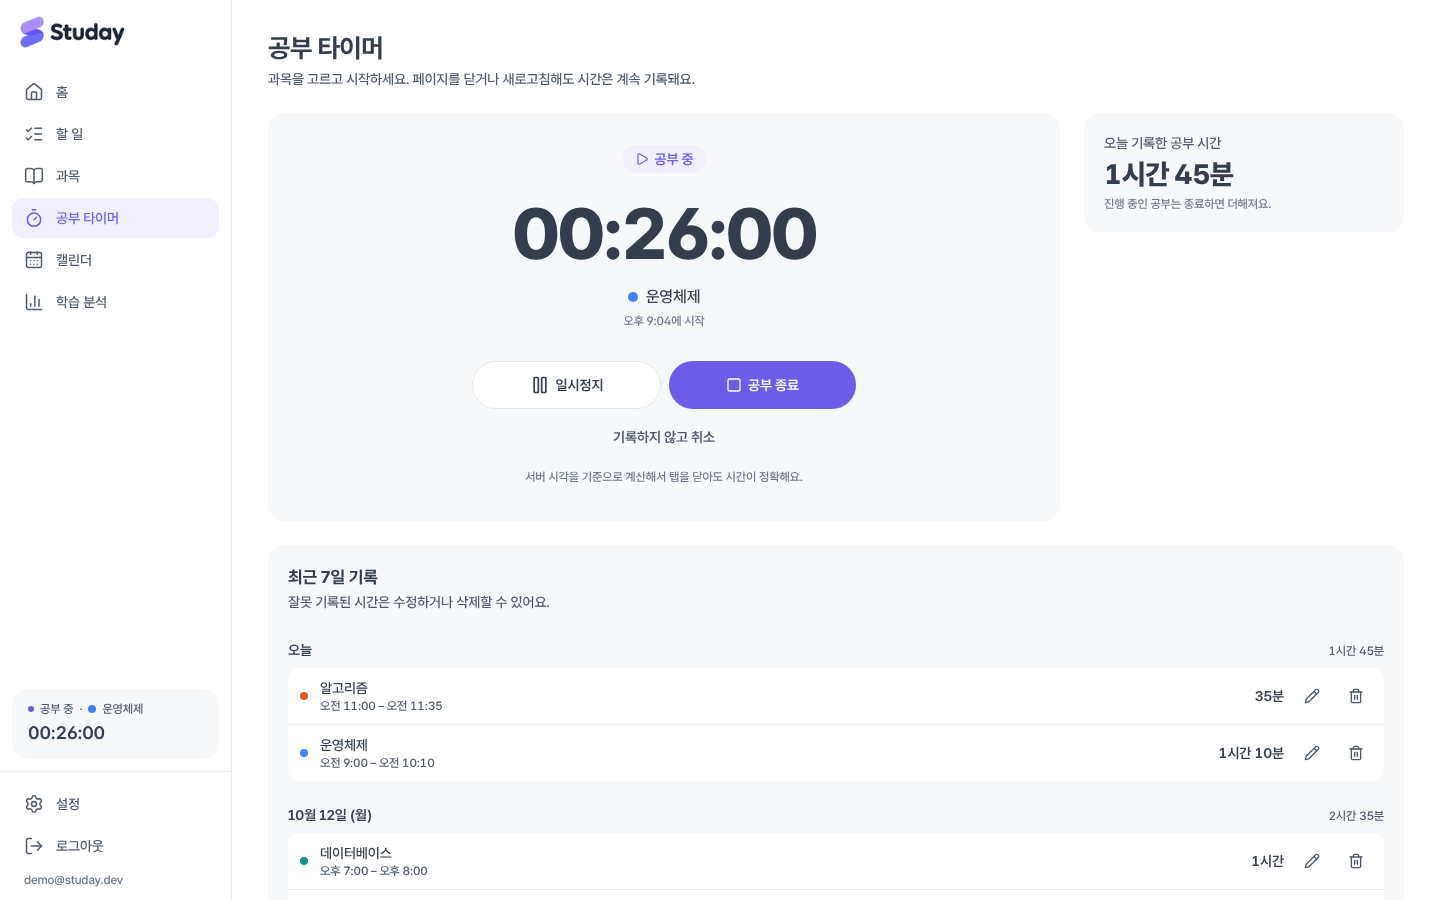
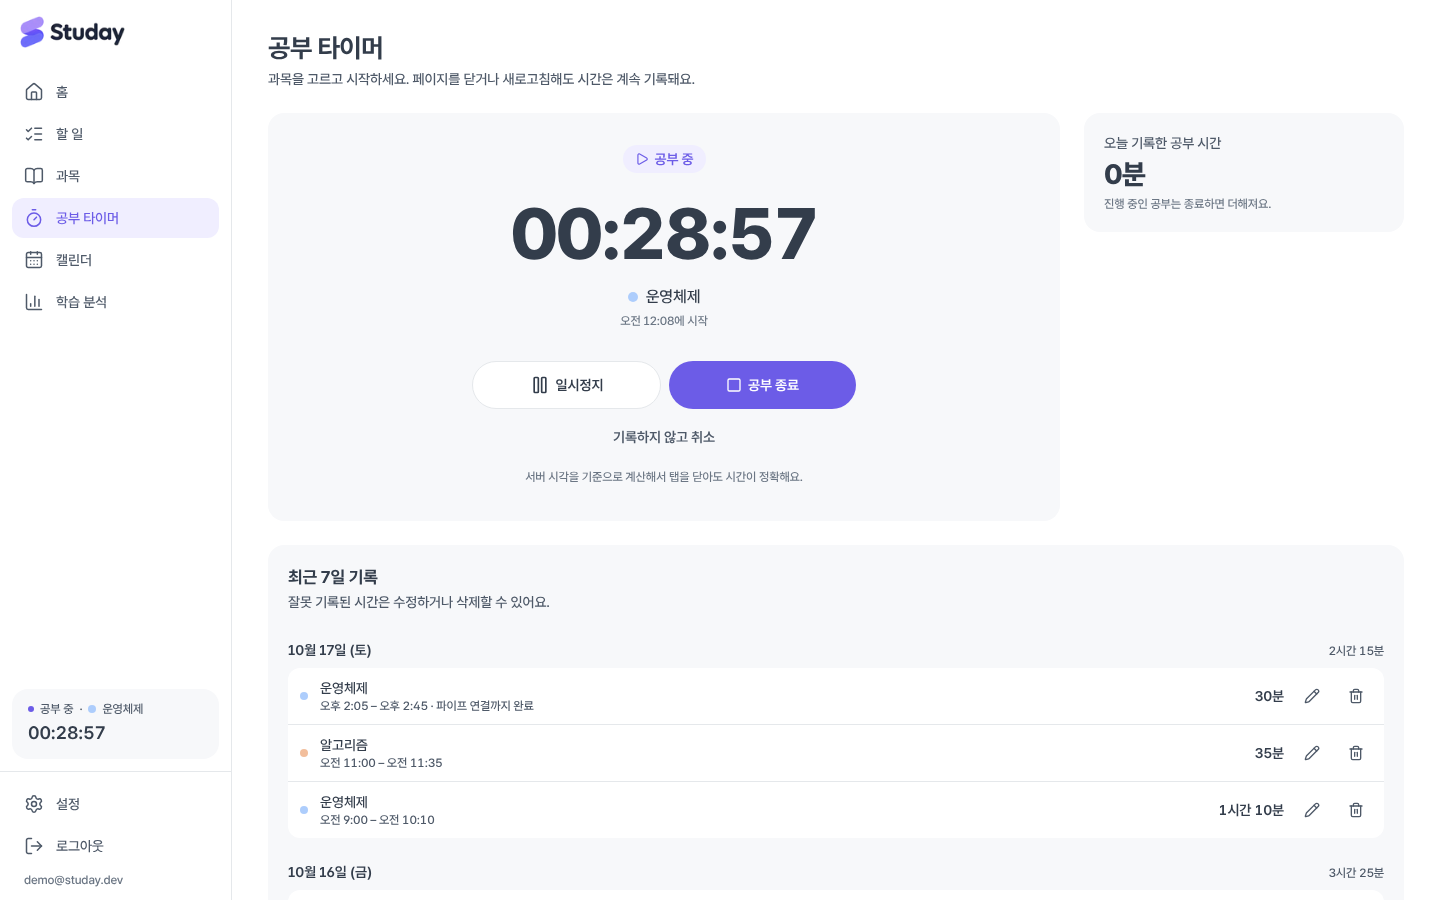
feat(subject): 과목 색상을 파스텔 팔레트로 변경
- 과목 색상 10가지를 파스텔 톤으로 교체 (라벤더·블루·스카이·민트·세이지·레몬·피치·코랄·핑크·그레이)
- 마이그레이션으로 기존 과목 색을 같은 위치의 파스텔 색으로 바꾸고 기본값을 라벤더로 변경
- 색상 선택 체크 표시를 진한 색으로 바꿔 연한 배경에서도 보이게 함
- 삭제된 과목·과목 없는 일정의 대체 색을 FALLBACK_SUBJECT_COLOR 상수로 통일
- 캘린더 날짜 칸 표시선을 4px로 넓혀 파스텔에서도 보이게 함
- design.md·deployment.md·README 갱신, 스크린샷 다시 촬영

diff --git a/src/components/study-log/study-log-card.tsx b/src/components/study-log/study-log-card.tsx
@@ -38,14 +38,13 @@ import {
   weekdayOfKey,
 } from "@/lib/time";
 import type { Subject } from "@/lib/types";
+import { FALLBACK_SUBJECT_COLOR } from "@/lib/subjects";
 
 const UNIT_OPTIONS: { value: LogUnit; label: string }[] = [
   { value: "day", label: "일" },
   { value: "week", label: "주" },
   { value: "month", label: "월" },
 ];
-
-const FALLBACK_COLOR = "#64748B";
 
 type SubjectMap = Map<string, Subject>;
 
@@ -271,7 +270,7 @@ function SubjectBar({
           className="h-full"
           style={{
             width: `${(seconds / total) * 100}%`,
-            background: subjectMap.get(id)?.color ?? FALLBACK_COLOR,
+            background: subjectMap.get(id)?.color ?? FALLBACK_SUBJECT_COLOR,
           }}
         />
       ))}
@@ -294,7 +293,7 @@ function SubjectTimes({
         const s = subjectMap.get(id);
         return (
           <li key={id} className="flex items-center gap-1.5">
-            <ColorDot color={s?.color ?? FALLBACK_COLOR} />
+            <ColorDot color={s?.color ?? FALLBACK_SUBJECT_COLOR} />
             {s?.name ?? "삭제된 과목"}
             <span className="tabular text-fg font-semibold">{formatDuration(seconds)}</span>
           </li>
@@ -499,7 +498,7 @@ function DayDetail({
                   </td>
                   <td className="px-4 py-3.5 align-top max-sm:col-span-2 max-sm:row-start-2 max-sm:p-0">
                     <p className="flex items-center gap-1.5 font-semibold">
-                      <ColorDot color={s?.color ?? FALLBACK_COLOR} />
+                      <ColorDot color={s?.color ?? FALLBACK_SUBJECT_COLOR} />
                       {s?.name ?? "삭제된 과목"}
                     </p>
                     {todoTitle && (

diff --git a/src/app/(app)/calendar/calendar-view.tsx b/src/app/(app)/calendar/calendar-view.tsx
@@ -27,6 +27,7 @@ import {
 } from "@/lib/time";
 import { sortTodos } from "@/lib/todos";
 import type { CalendarEvent, Todo } from "@/lib/types";
+import { FALLBACK_SUBJECT_COLOR } from "@/lib/subjects";
 
 const MAX_ITEMS_IN_CELL = 3;
 
@@ -79,7 +80,8 @@ export function CalendarView() {
       push(todo.due_date, { kind: "todo", todo, color: subject.color });
     }
     for (const event of eventsQuery.data ?? []) {
-      const color = (event.subject_id && subjectMap.get(event.subject_id)?.color) || "#64748B";
+      const color =
+        (event.subject_id && subjectMap.get(event.subject_id)?.color) || FALLBACK_SUBJECT_COLOR;
       for (const key of eventDays(event, timeZone)) push(key, { kind: "event", event, color });
     }
     return map;
@@ -250,7 +252,7 @@ export function CalendarView() {
                             >
                               <span
                                 aria-hidden
-                                className="h-3 w-0.5 shrink-0 rounded-full"
+                                className="h-3 w-1 shrink-0 rounded-full"
                                 style={{ backgroundColor: item.color }}
                               />
                               <Icon aria-hidden className="text-fg-secondary size-3 shrink-0" />

diff --git a/src/lib/subjects.ts b/src/lib/subjects.ts
@@ -1,12 +1,20 @@
+/**
+ * Pastel subject palette. Kept soft on purpose so subject colors sit quietly
+ * next to the purple accent; the subject name is always shown as text, so the
+ * color is a secondary cue only.
+ */
 export const SUBJECT_COLORS: { value: string; label: string }[] = [
-  { value: "#6C5CE7", label: "보라" },
-  { value: "#3B82F6", label: "파랑" },
-  { value: "#0EA5E9", label: "하늘" },
-  { value: "#0D9488", label: "청록" },
-  { value: "#16A34A", label: "초록" },
-  { value: "#CA8A04", label: "노랑" },
-  { value: "#EA580C", label: "주황" },
-  { value: "#DC2626", label: "빨강" },
-  { value: "#DB2777", label: "분홍" },
-  { value: "#64748B", label: "회색" },
+  { value: "#C9C3F9", label: "라벤더" },
+  { value: "#ADCDFC", label: "블루" },
+  { value: "#96D5F1", label: "스카이" },
+  { value: "#93DBCC", label: "민트" },
+  { value: "#AAD9AF", label: "세이지" },
+  { value: "#DACB93", label: "레몬" },
+  { value: "#F2BE9C", label: "피치" },
+  { value: "#F8B8B2", label: "코랄" },
+  { value: "#F3B7CD", label: "핑크" },
+  { value: "#C3CBD8", label: "그레이" },
 ];
+
+/** Color for a deleted subject or an event without a subject. */
+export const FALLBACK_SUBJECT_COLOR = "#C3CBD8";

diff --git a/src/app/(app)/dashboard-view.tsx b/src/app/(app)/dashboard-view.tsx
@@ -24,6 +24,7 @@ import { aggregateStudy, sumBySubject, sumDays } from "@/lib/stats";
 import { formatClock, formatDayLabel, formatDuration } from "@/lib/time";
 import { isDueSoon, isOverdue, progressBySubject, sortTodos } from "@/lib/todos";
 import type { Todo } from "@/lib/types";
+import { FALLBACK_SUBJECT_COLOR } from "@/lib/subjects";
 
 export function DashboardView() {
   const week = useWeek();
@@ -119,7 +120,9 @@ export function DashboardView() {
               {active.session.status === "running" ? "공부 중이에요" : "일시정지 중이에요"}
             </span>
             <span className="text-fg mt-0.5 flex items-center gap-1.5 text-sm">
-              <ColorDot color={subjectMap.get(active.session.subject_id)?.color ?? "#64748B"} />
+              <ColorDot
+                color={subjectMap.get(active.session.subject_id)?.color ?? FALLBACK_SUBJECT_COLOR}
+              />
               {subjectMap.get(active.session.subject_id)?.name ?? "과목"}
             </span>
           </span>

diff --git a/src/app/(app)/analytics/analytics-view.tsx b/src/app/(app)/analytics/analytics-view.tsx
@@ -29,6 +29,7 @@ import {
   weekdayLabel,
   weekdayOfKey,
 } from "@/lib/time";
+import { FALLBACK_SUBJECT_COLOR } from "@/lib/subjects";
 
 type Period = "7d" | "4w";
 
@@ -195,7 +196,10 @@ export function AnalyticsView() {
                       <li key={id}>
                         <div className="flex items-baseline justify-between gap-2 text-sm">
                           <span className="flex min-w-0 items-center gap-2 font-medium">
-                            <ColorDot color={s?.color ?? "#64748B"} className="size-2.5" />
+                            <ColorDot
+                              color={s?.color ?? FALLBACK_SUBJECT_COLOR}
+                              className="size-2.5"
+                            />
                             <span className="truncate">{s?.name ?? "삭제된 과목"}</span>
                           </span>
                           <span className="tabular text-fg-secondary shrink-0">

diff --git a/src/components/todo/subject-todo-sections.tsx b/src/components/todo/subject-todo-sections.tsx
@@ -4,6 +4,7 @@ import { ColorDot } from "@/components/ui/badge";
 import { groupBySubject } from "@/lib/todos";
 import type { Category, Subject, Todo } from "@/lib/types";
 import { TodoRow } from "./todo-row";
+import { FALLBACK_SUBJECT_COLOR } from "@/lib/subjects";
 
 /**
  * Todos shown in one section per subject (subject color dot, name, count),
@@ -35,7 +36,7 @@ export function SubjectTodoSections({
               id={headingId}
               className="text-fg flex items-center gap-2 pt-3 pb-1 text-sm font-semibold"
             >
-              <ColorDot color={subject?.color ?? "#64748B"} className="size-2.5" />
+              <ColorDot color={subject?.color ?? FALLBACK_SUBJECT_COLOR} className="size-2.5" />
               <span className="truncate">{subject?.name ?? "과목"}</span>
               <span className="text-fg-tertiary text-xs font-medium tabular-nums">
                 {list.length}

diff --git a/src/app/(app)/focus/focus-view.tsx b/src/app/(app)/focus/focus-view.tsx
@@ -36,6 +36,7 @@ import {
 } from "@/lib/time";
 import { sortTodos } from "@/lib/todos";
 import type { StudySession } from "@/lib/types";
+import { FALLBACK_SUBJECT_COLOR } from "@/lib/subjects";
 
 type Action = "start" | "pause" | "resume" | "finish" | "discard" | null;
 
@@ -365,7 +366,7 @@ export function FocusView() {
                     const subj = subjectMap.get(s.subject_id);
                     return (
                       <li key={s.id} className="flex items-center gap-3 px-3 py-2.5">
-                        <ColorDot color={subj?.color ?? "#64748B"} />
+                        <ColorDot color={subj?.color ?? FALLBACK_SUBJECT_COLOR} />
                         <div className="min-w-0 flex-1">
                           <p className="truncate text-sm font-medium">{subj?.name ?? "과목"}</p>
                           <p className="tabular text-fg-secondary text-xs">

diff --git a/src/components/subject/subject-form-dialog.tsx b/src/components/subject/subject-form-dialog.tsx
@@ -131,7 +131,7 @@ function SubjectForm({ onClose, subject, onCreated }: Props) {
                 />
                 <span
                   aria-hidden
-                  className="flex size-6 items-center justify-center rounded-full text-white"
+                  className="text-fg flex size-6 items-center justify-center rounded-full"
                   style={{ backgroundColor: c.value }}
                 >
                   {selected && <Check className="size-3.5" strokeWidth={3} />}

diff --git a/README.md b/README.md
@@ -24,7 +24,7 @@
 
 ### 과목·카테고리·할 일
 
-과목마다 색상과 주간 목표 시간을 정하고, 과제·시험 공부·강의 복습 같은 카테고리로 할 일을 나눕니다. 할 일에는 우선순위, 마감일, 예상 소요 시간, 메모를 붙일 수 있습니다. 할 일 목록과 홈의 "오늘의 할 일"은 **과목별 섹션**으로 나뉘고, 섹션 안에서는 마감일이 빠른 순 → 우선순위 순으로 정렬됩니다. 과목 순서는 손잡이를 끌어 바꿀 수 있고(키보드로도 가능), 바꾼 순서는 할 일 섹션, 대시보드, 선택 목록에도 똑같이 적용됩니다. 학기가 끝난 과목은 기록을 남긴 채 **보관**할 수 있습니다.
+과목마다 파스텔 색상(10가지 중 선택)과 주간 목표 시간을 정하고, 과제·시험 공부·강의 복습 같은 카테고리로 할 일을 나눕니다. 할 일에는 우선순위, 마감일, 예상 소요 시간, 메모를 붙일 수 있습니다. 할 일 목록과 홈의 "오늘의 할 일"은 **과목별 섹션**으로 나뉘고, 섹션 안에서는 마감일이 빠른 순 → 우선순위 순으로 정렬됩니다. 과목 순서는 손잡이를 끌어 바꿀 수 있고(키보드로도 가능), 바꾼 순서는 할 일 섹션, 대시보드, 선택 목록에도 똑같이 적용됩니다. 학기가 끝난 과목은 기록을 남긴 채 **보관**할 수 있습니다.
 
 ![과목별로 나뉜 할 일 목록](docs/images/todos.png)
 

diff --git a/docs/design.md b/docs/design.md
@@ -149,8 +149,11 @@ adjust for contrast.
 -   Warning: due-soon states and caution.
 -   Danger: destructive actions, overdue states when appropriate, and
     validation errors.
--   Subject colors: allow a user-selected color per subject, but use
-    those colors mainly for small dots, labels, and progress indicators.
+-   Subject colors: the user picks one of 10 pastel colors per subject
+    (`SUBJECT_COLORS` in `src/lib/subjects.ts`: lavender, blue, sky, mint,
+    sage, lemon, peach, coral, pink, gray). Use them mainly for small dots,
+    labels, and progress indicators. They are intentionally soft and low in
+    contrast, so always show the subject name as text next to the color.
 
 Do not use many saturated colors at the same time. Avoid using color
 alone to communicate status; pair it with text or an icon.

diff --git a/docs/deployment.md b/docs/deployment.md
@@ -22,6 +22,7 @@
    1. `20261011000000_init.sql` — 테이블, RLS, 타이머 함수
    2. `20261011160000_social_login_display_name.sql` — Google 가입자 이름 자동 설정
    3. `20261011170000_subject_sort_order.sql` — 과목 순서 변경
+   4. `20261018000000_pastel_subject_colors.sql` — 과목 색상을 파스텔 팔레트로 변경
    - Supabase CLI를 쓴다면: `npx supabase link --project-ref <ref>` 후 `npx supabase db push`
 3. **Table Editor**에 7개 테이블(`user_settings`, `subjects`, `categories`, `todos`, `calendar_events`, `study_sessions`, `study_segments`)이 생겼는지 확인합니다. 빨간 **Unrestricted** 표시가 없어야 RLS가 켜진 상태입니다.
 
